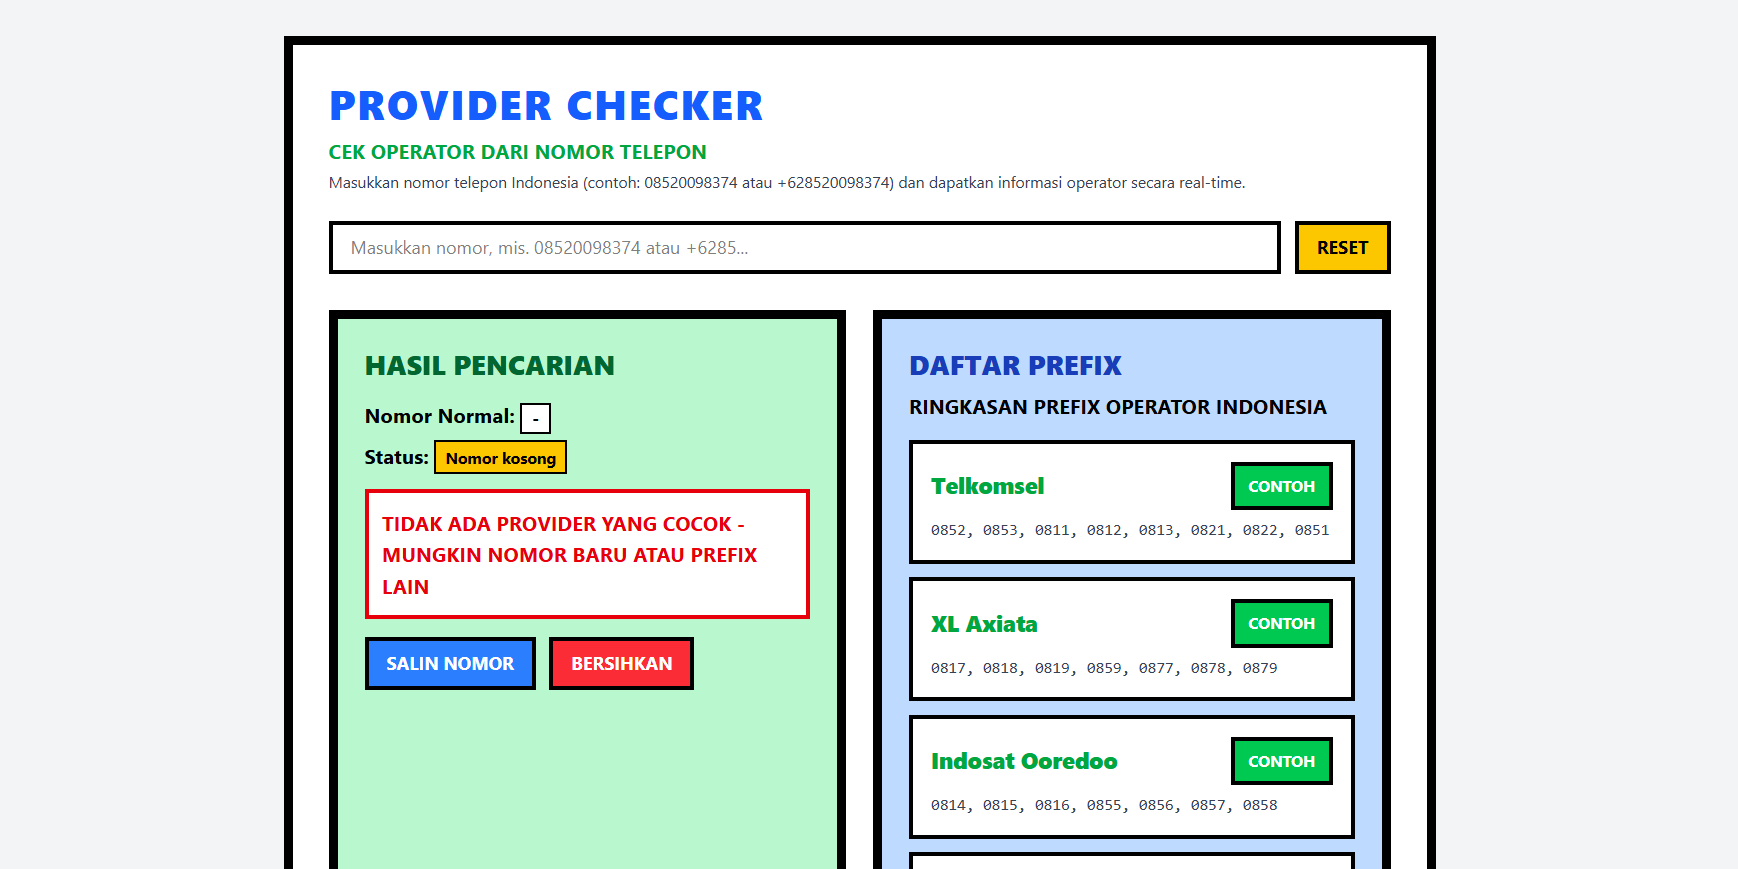
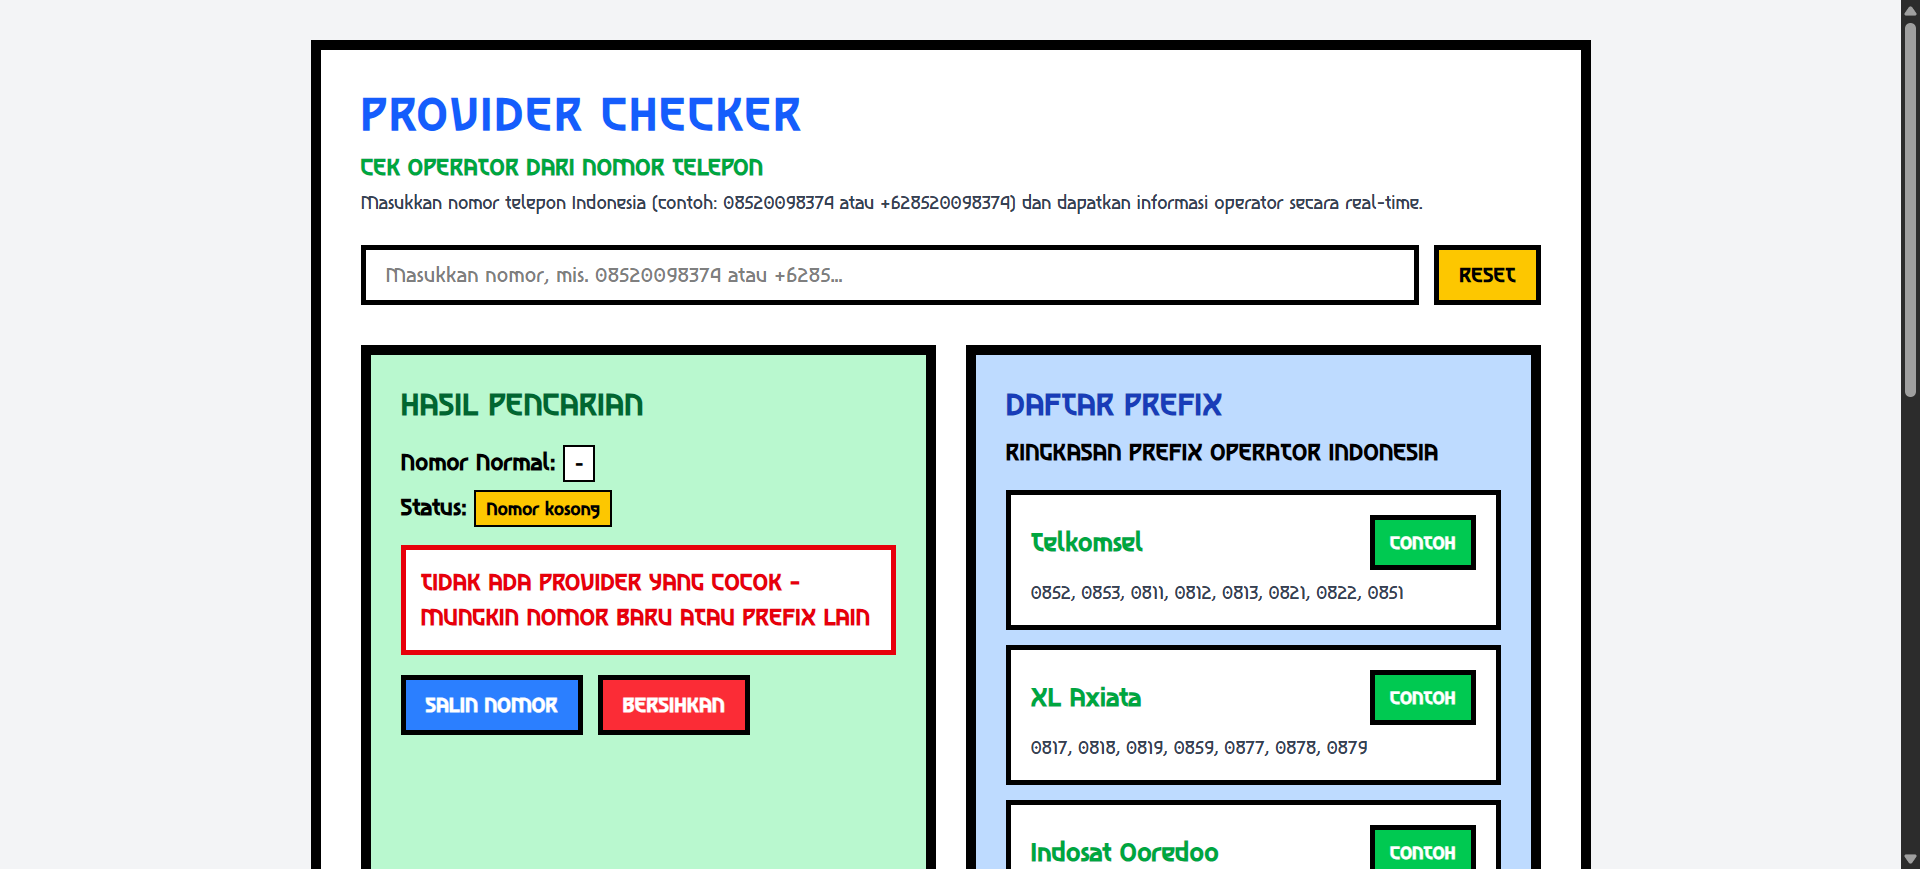
fix: make content to indonesia language

Changed region(s): [[0.1554, 0.0311, 0.8389, 1.0], [0.9632, 0.0, 1.0, 1.0]]

diff --git a/src/App.tsx b/src/App.tsx
@@ -1,7 +1,7 @@
 import { useState, useEffect } from "react";
 
-// Provider Checker App (single-file React component for Vite + Tailwind)
-// Default export a React component so it can be used as src/App.jsx
+// Aplikasi Provider Checker (komponen React satu-file untuk Vite + Tailwind)
+// Export default komponen React sehingga bisa digunakan sebagai src/App.jsx
 
 interface Match {
   prefix: string;
@@ -36,7 +36,7 @@ const PREFIX_MAP: Record<string, string[]> = {
   ]
 };
 
-// Build a reverse lookup: prefix -> provider (fast checking)
+// Membangun pencarian terbalik: prefix -> provider (pengecekan cepat)
 const PREFIX_TO_PROVIDER: Record<string, string> = Object.entries(PREFIX_MAP).reduce((acc, [provider, prefixes]) => {
   prefixes.forEach(p => (acc[p] = provider));
   return acc;
@@ -44,13 +44,13 @@ const PREFIX_TO_PROVIDER: Record<string, string> = Object.entries(PREFIX_MAP).re
 
 function normalizeNumber(input: string): string {
   if (!input) return "";
-  // keep only digits and plus
+  // simpan hanya digit dan plus
   let s = input.trim();
-  // remove spaces, dashes, parentheses
+  // hapus spasi, dash, tanda kurung
   s = s.replace(/[^0-9+]/g, "");
-  // handle +62 -> 0
+  // tangani +62 -> 0
   if (s.startsWith("+62")) s = "0" + s.slice(3);
-  // handle leading 62 without plus
+  // tangani awalan 62 tanpa plus
   if (s.startsWith("62") && !s.startsWith("0")) s = "0" + s.slice(2);
   return s;
 }
@@ -62,16 +62,16 @@ function findProvidersByNumber(raw: string): CheckResult {
     return { normalized: n, matches: [], reason: "Format nomor tidak dikenali" };
   }
 
-  // try 4-digit prefix first
+  // coba prefix 4-digit terlebih dahulu
   const first4 = n.slice(0, 4);
   const first3 = n.slice(0, 3);
   const matches = [];
 
   if (PREFIX_TO_PROVIDER[first4]) matches.push({ prefix: first4, provider: PREFIX_TO_PROVIDER[first4] });
-  // also check 3-digit (fallback) in case some ranges are 3-digit
+  // juga periksa 3-digit (fallback) jika beberapa range adalah 3-digit
   if (PREFIX_TO_PROVIDER[first3] && first3 !== first4) matches.push({ prefix: first3, provider: PREFIX_TO_PROVIDER[first3] });
 
-  // additionally, try scanning if any mapping starts with the number (useful if input is incomplete)
+  // tambahan, coba pindai jika ada mapping yang dimulai dengan nomor (berguna jika input tidak lengkap)
   if (matches.length === 0) {
     Object.keys(PREFIX_TO_PROVIDER).forEach(p => {
       if (p.startsWith(n.slice(0, p.length))) {
@@ -98,7 +98,7 @@ export default function App() {
       const r = findProvidersByNumber(input);
       setResult(r);
       setLoading(false);
-    }, 300); // 300ms debounce
+    }, 300); // debounce 300ms
     setDebounceTimer(timer);
     return () => clearTimeout(timer);
   }, [input]);
@@ -164,7 +164,7 @@ export default function App() {
                       setTimeout(() => setCopied(false), 2000);
                     }}
                     className="px-3 sm:px-4 py-2 border-4 border-black bg-blue-500 text-white font-bold uppercase hover:bg-blue-600 text-sm sm:text-base"
-                  >{copied ? "COPIED!" : "SALIN NOMOR"}</button>
+                  >{copied ? "TERSALIN!" : "SALIN NOMOR"}</button>
                   <button
                     onClick={() => setInput("")}
                     className="px-3 sm:px-4 py-2 border-4 border-black bg-red-500 text-white font-bold uppercase hover:bg-red-600 text-sm sm:text-base"
@@ -196,11 +196,11 @@ export default function App() {
         </section>
 
         <footer className="mt-6 sm:mt-8 text-base sm:text-lg text-blue-600 font-black uppercase bg-yellow-200 p-4 border-8 border-black">
-          <p>Built with Vite + React + Tailwind CSS. Raw and Real-Time Provider Detection.</p>
+          <p>Dibangun dengan Vite + React + Tailwind CSS. Deteksi Provider Real-Time yang Mentah.</p>
           <div className="mt-4 text-sm text-gray-700">
-            <p><strong>Source Code:</strong> <a href="https://github.com/naandan/numera" target="_blank" rel="noopener noreferrer" className="text-blue-600 underline">GitHub Repository</a></p>
-            <p><strong>Author:</strong> Nandan</p>
-            <p><strong>License:</strong> MIT</p>
+            <p><strong>Kode Sumber:</strong> <a href="https://github.com/naandan/" target="_blank" rel="noopener noreferrer" className="text-blue-600 underline">Repositori GitHub</a></p>
+            <p><strong>Penulis:</strong> Nandan</p>
+            <p><strong>Lisensi:</strong> MIT</p>
           </div>
         </footer>
       </div>

diff --git a/README.md b/README.md
@@ -134,7 +134,7 @@ Kontribusi sangat diterima! Silakan ikuti langkah berikut:
 
 ## 📄 Lisensi
 
-Distributed under the MIT License. See `LICENSE` for more information.
+Didistribusikan di bawah Lisensi MIT. Lihat `LICENSE` untuk informasi lebih lanjut.
 
 ## 👨💻 Author
 
@@ -142,12 +142,12 @@ Distributed under the MIT License. See `LICENSE` for more information.
 - GitHub: [@nandan](https://github.com/nandan)
 - Twitter: [@nandan_dev](https://twitter.com/nandan_dev)
 
-## 🙏 Acknowledgments
+## 🙏 Ucapan Terima Kasih
 
-- [React](https://reactjs.org/) - A JavaScript library for building user interfaces
-- [Vite](https://vitejs.dev/) - Next generation frontend tooling
-- [Tailwind CSS](https://tailwindcss.com/) - A utility-first CSS framework
-- [Bebas Neue Font](https://fonts.google.com/specimen/Bebas+Neue) - Display font from Google Fonts
+- [React](https://reactjs.org/) - Library JavaScript untuk membangun antarmuka pengguna
+- [Vite](https://vitejs.dev/) - Alat pengembangan frontend generasi berikutnya
+- [Tailwind CSS](https://tailwindcss.com/) - Framework CSS utility-first
+- [Bebas Neue Font](https://fonts.google.com/specimen/Bebas+Neue) - Font display dari Google Fonts
 
 ## 📞 Support
 
@@ -155,4 +155,4 @@ Jika Anda memiliki pertanyaan atau masalah, silakan buat [issue](https://github.
 
 ---
 
-⭐ **Star this repo** jika Anda menyukai proyek ini!
+⭐ **Beri bintang pada repo ini** jika Anda menyukai proyek ini!
